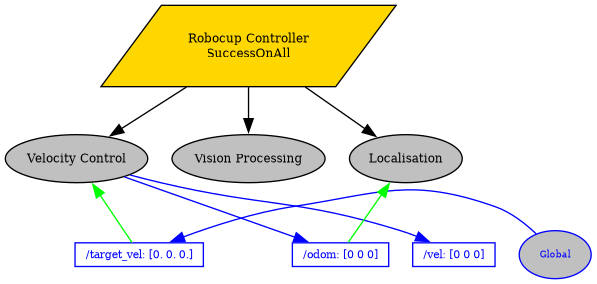
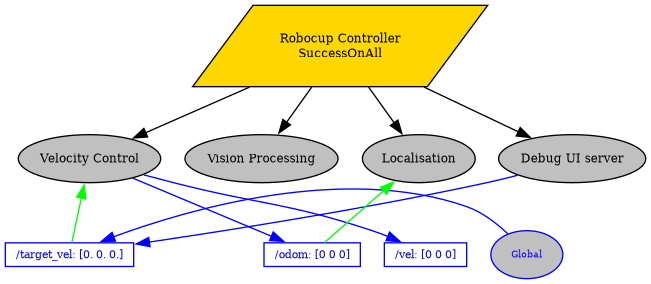
feat: /pose websocket

diff --git a/controller/components/debug_server.py b/controller/components/debug_server.py
@@ -1,10 +1,23 @@
 from __future__ import annotations
-from aiohttp import web
+from aiohttp import web, WSMsgType
 import aiohttp_cors
 from multiprocessing import Queue
+import asyncio
+
+import posetree
 
 
-def debug_sever(target_vel_queue: Queue[tuple[float, float, float]]):
+def debug_sever(
+    target_vel_queue: Queue[tuple[float, float, float]],
+    current_pose: Queue[tuple[float, float, float]],
+):
+    """
+    Debug server running in a different process. Uses queues for communication.
+
+    Arguments:
+    target_vel_queue: Queue of (vx, vy, vw) written to from this function
+    current_pose: Queue of (x, y, w) read from this function
+    """
     routes = web.RouteTableDef()
 
     @routes.post("/target_vel")
@@ -14,6 +27,35 @@ def debug_sever(target_vel_queue: Queue[tuple[float, float, float]]):
         target_vel_queue.put((data["x"], data["y"], data["w"]))
 
         return web.Response()
+
+    async def send_current_pose(ws: web.WebSocketResponse):
+        def get_current_pose() -> tuple[float, float, float]:
+            return current_pose.get()
+
+        while True:
+            x, y, w = await asyncio.to_thread(get_current_pose)
+            await ws.send_json(
+                {
+                    "x": x,
+                    "y": y,
+                    "w": w,
+                }
+            )
+
+    @routes.get("/pose")
+    async def pose(request: web.Request) -> web.WebSocketResponse:
+        ws = web.WebSocketResponse()
+        await ws.prepare(request)
+
+        task = asyncio.create_task(send_current_pose(ws))
+
+        async for msg in ws:
+            if msg.type == WSMsgType.ERROR:
+                print("ws connection closed with exception %s" % ws.exception())
+
+        task.cancel()
+
+        return ws
 
     app = web.Application()
     app.add_routes(routes)

diff --git a/controller/behaviours/localisation.py b/controller/behaviours/localisation.py
@@ -15,30 +15,27 @@ class Localisation(py_trees.behaviour.Behaviour):
         self.blackboard.register_key(
             "odom", access=py_trees.common.Access.READ, required=True
         )
-
-        self.posetree: PoseTree | None = None
+        self.blackboard.register_key("posetree", access=py_trees.common.Access.WRITE)
 
     def setup(self, **kwargs: typing.Any) -> None:
         """Used to dependency inject PoseTree instance."""
         if "posetree" in kwargs and isinstance(
             posetree := kwargs["posetree"], PoseTree
         ):
-            self.posetree = posetree
+            self.blackboard.posetree = posetree
         else:
             raise TypeError("Expected posetree to be passed in Localisation.setup()")
 
     def update(self) -> py_trees.common.Status:
         """Stub implementation that just converts odometry into a pose"""
-        if not self.posetree:
-            raise ValueError("Expected Localisation.setup() to be called.")
 
         pose = Pose.from_position_and_rotation(
             [self.blackboard.odom[0], self.blackboard.odom[1], 0],
             Rotation.from_euler("z", self.blackboard.odom[2]),
             "field",
-            self.posetree,
+            self.blackboard.posetree,
         )
 
-        self.posetree.add_frame(pose, "chassis")
+        self.blackboard.posetree.add_frame(pose, "chassis")
 
         return py_trees.common.Status.RUNNING
